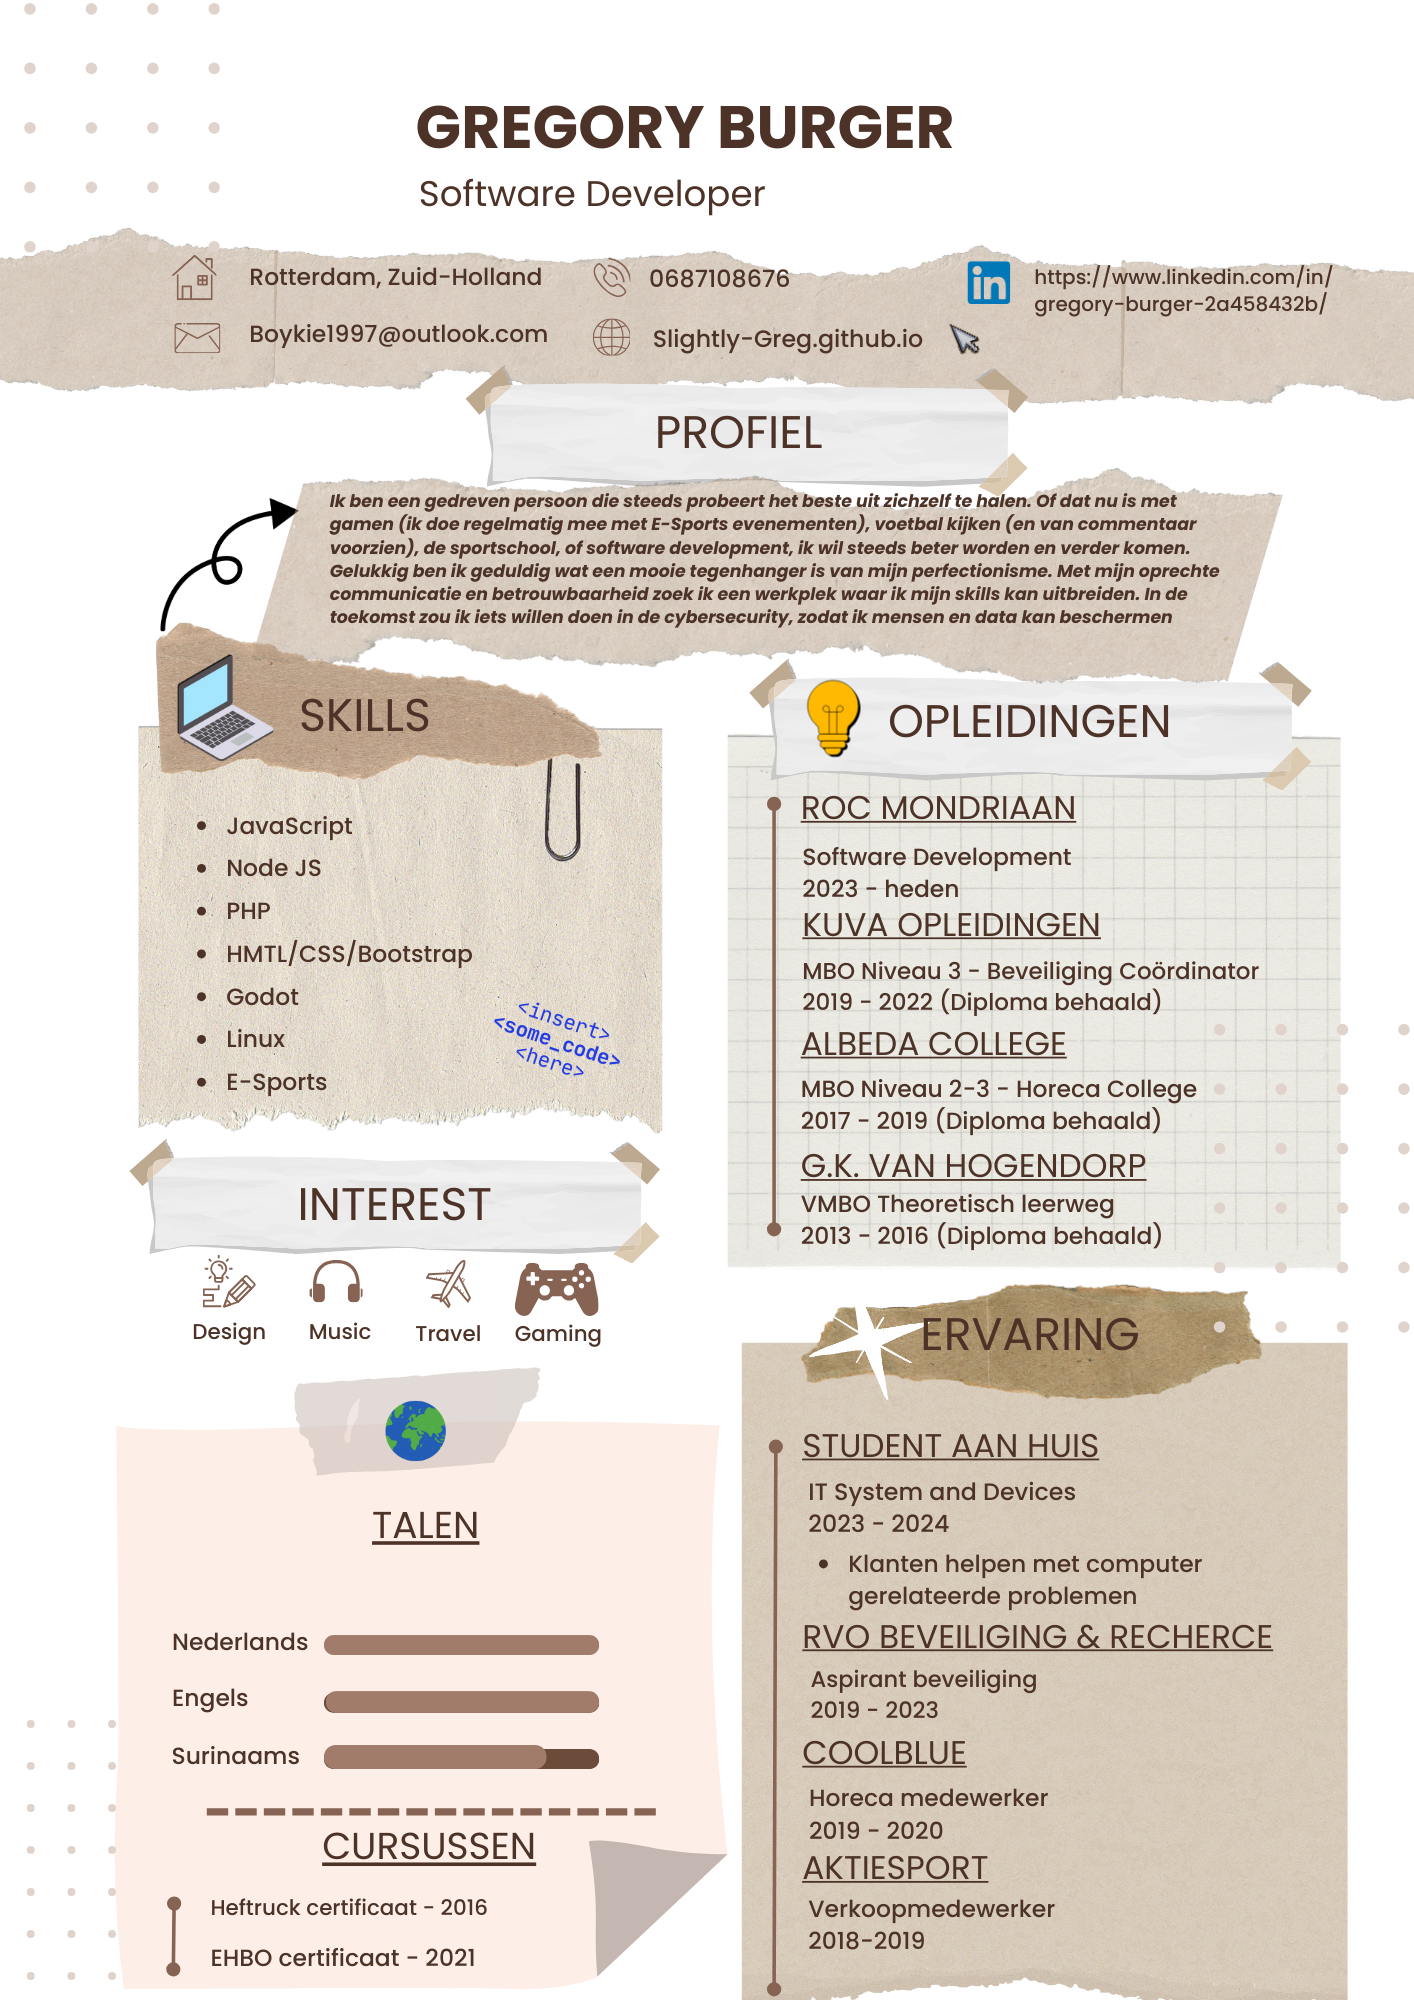
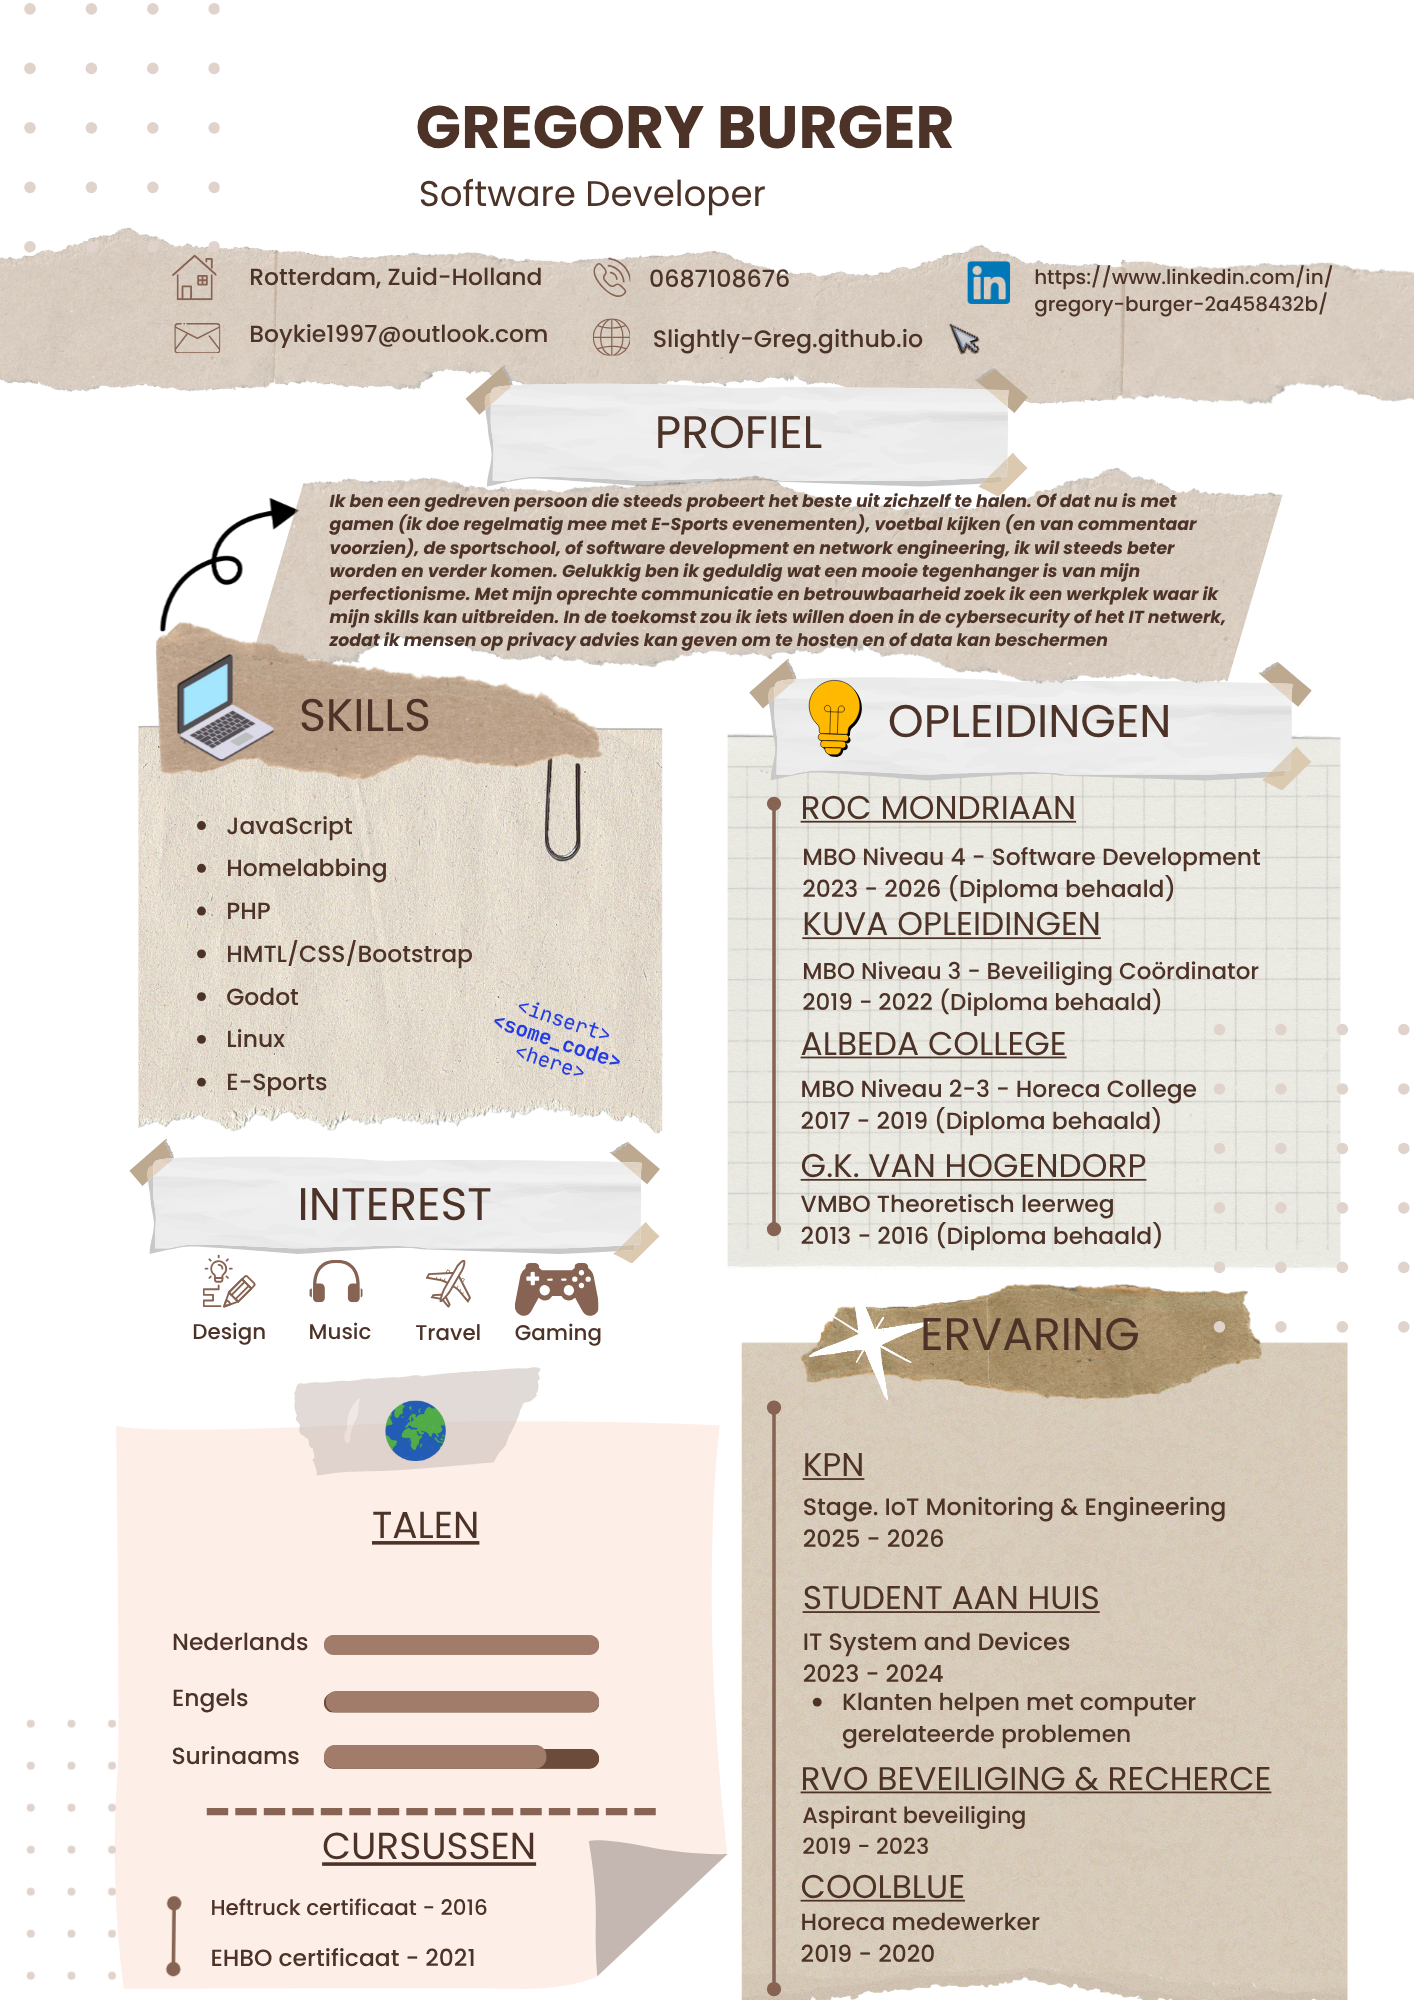
added more experiences in resume

diff --git a/index.html b/index.html
@@ -101,8 +101,8 @@
               />
               <h3>Experience</h3>
               <p>
-                1.5 years <br />
-                Frontend Development & Backend Development
+                3+ years <br />
+                Frontend Development & Backend Development | IoT Engineer
               </p>
             </div>
             <div class="details-container">
@@ -261,6 +261,126 @@
                 />
                 <div>
                   <h3>Symfony</h3>
+                  <p>Intermediate</p>
+                </div>
+              </article>
+            </div>
+          </div>
+          <div class="details-container">
+            <h2 class="experience-sub-title">Homelabbing</h2>
+            <div class="article-container">
+              <article>
+                <img
+                  src="./assets/checkmark.png"
+                  alt="experience icon"
+                  class="icon"
+                />
+                <div>
+                  <h3>Linux</h3>
+                  <p>Experienced</p>
+                </div>
+              </article>
+              <article>
+                <img
+                  src="./assets/checkmark.png"
+                  alt="experience icon"
+                  class="icon"
+                />
+                <div>
+                  <h3>Docker</h3>
+                  <p>Intermediate</p>
+                </div>
+              </article>
+              <article>
+                <img
+                  src="./assets/checkmark.png"
+                  alt="experience icon"
+                  class="icon"
+                />
+                <div>
+                  <h3>Virtualization</h3>
+                  <p>Intermediate</p>
+                </div>
+              </article>
+              <article>
+                <img
+                  src="./assets/checkmark.png"
+                  alt="experience icon"
+                  class="icon"
+                />
+                <div>
+                  <h3>Networking</h3>
+                  <p>Intermediate</p>
+                </div>
+              </article>
+              <article>
+                <img
+                  src="./assets/checkmark.png"
+                  alt="experience icon"
+                  class="icon"
+                />
+                <div>
+                  <h3>Self-Hosting</h3>
+                  <p>Experienced</p>
+                </div>
+              </article>
+            </div>
+          </div>
+          <div class="details-container">
+            <h2 class="experience-sub-title">IoT</h2>
+            <div class="article-container">
+              <article>
+                <img
+                  src="./assets/checkmark.png"
+                  alt="experience icon"
+                  class="icon"
+                />
+                <div>
+                  <h3>Arduino</h3>
+                  <p>Intermediate</p>
+                </div>
+              </article>
+              <article>
+                <img
+                  src="./assets/checkmark.png"
+                  alt="experience icon"
+                  class="icon"
+                />
+                <div>
+                  <h3>ESP32</h3>
+                  <p>Intermediate</p>
+                </div>
+              </article>
+              <article>
+                <img
+                  src="./assets/checkmark.png"
+                  alt="experience icon"
+                  class="icon"
+                />
+                <div>
+                  <h3>MQTT</h3>
+                  <p>Experienced</p>
+                </div>
+              </article>
+              <article>
+                <img
+                  src="./assets/checkmark.png"
+                  alt="experience icon"
+                  class="icon"
+                />
+                <div>
+                  <h3>Raspberry Pi</h3>
+                  <p>Intermediate</p>
+                </div>
+              </article>
+              <article>
+                <img
+                  src="./assets/checkmark.png"
+                  alt="experience icon"
+                  class="icon"
+                />
+                <div>
+                  <h3>Home Assistant</h3>
                   <p>Intermediate</p>
                 </div>
               </article>

diff --git a/css/index.css b/css/index.css
@@ -284,6 +284,19 @@ section {
   flex-direction: column;
 }
 
+#experience .about-containers {
+  display: grid;
+  grid-template-columns: repeat(2, 1fr);
+  gap: 2rem;
+  width: 100%;
+  max-width: 1200px;
+  margin: 2rem auto;
+}
+
+#experience .details-container {
+  flex: unset;
+}
+
 .article-container {
   display: flex;
   text-align: initial;

diff --git a/css/mediaqueries.css b/css/mediaqueries.css
@@ -8,6 +8,10 @@
     flex-wrap: wrap;
 
   }
+
+  #experience .about-containers {
+    grid-template-columns: 1fr;
+  }
 }
 
 @media screen and (max-width: 1200px) {
